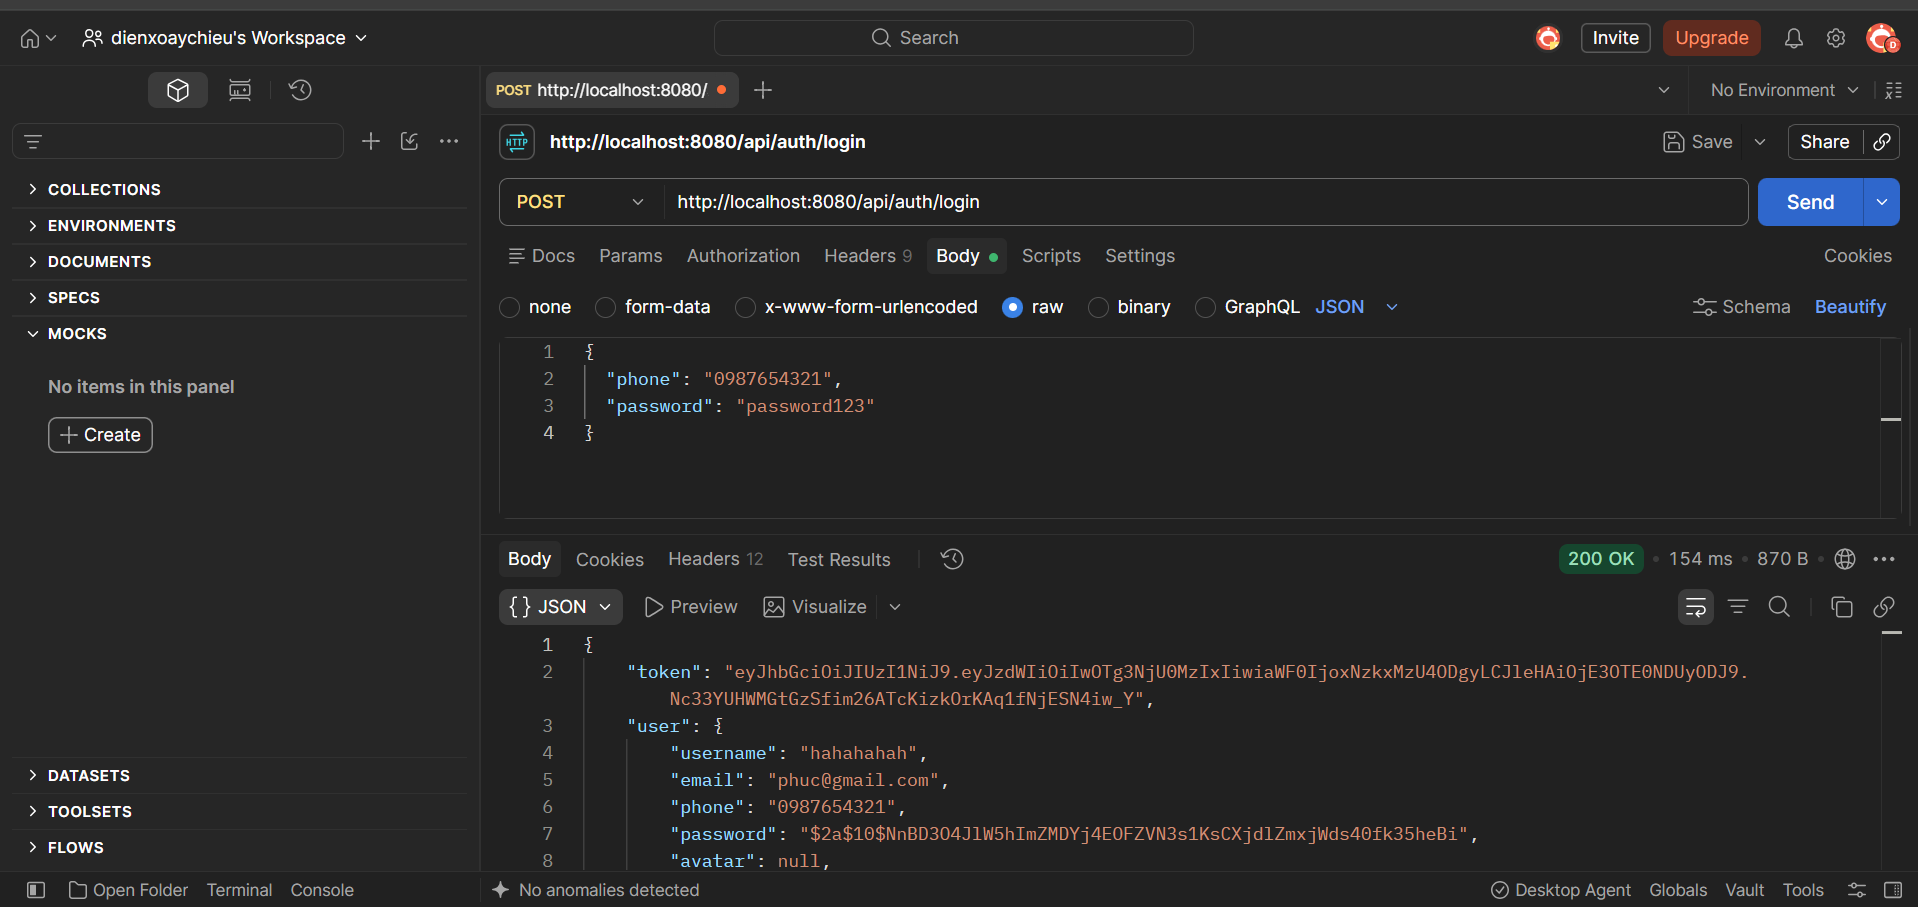
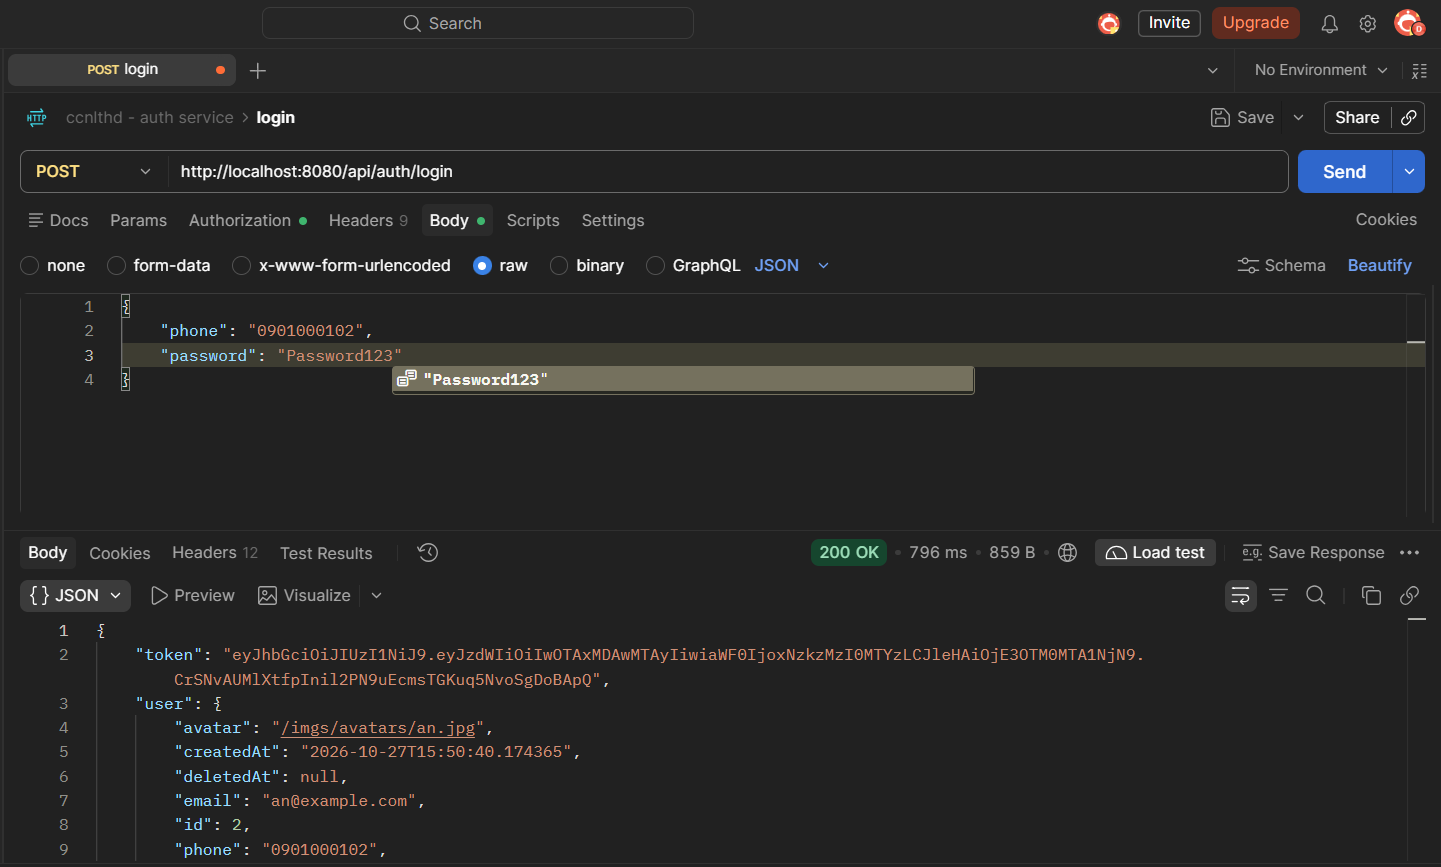
docs

diff --git a/src/main/java/com/example/ecommerce/repositories/ProductRepository.java b/src/main/java/com/example/ecommerce/repositories/ProductRepository.java
@@ -1,9 +1,11 @@
 package com.example.ecommerce.repositories;
 
 import com.example.ecommerce.entities.Product;
+import org.springframework.stereotype.Repository;
 import org.springframework.data.jpa.repository.JpaRepository;
 import java.util.List;
 
+@Repository
 public interface ProductRepository extends JpaRepository<Product, Integer> {
     List<Product> findByCategoryId(Integer categoryId);
     List<Product> findByNameContainingIgnoreCase(String keyword);

diff --git a/README.md b/README.md
@@ -91,7 +91,6 @@ Dữ liệu PostgreSQL được giữ trong Docker volume. Chỉ dùng `docker c
 
 ---
 
-# 1. Tính năng: Authentication (Xác thực)
 # 1. Ecommerce REST API Documentation
 
 ## 1. Tổng quan
